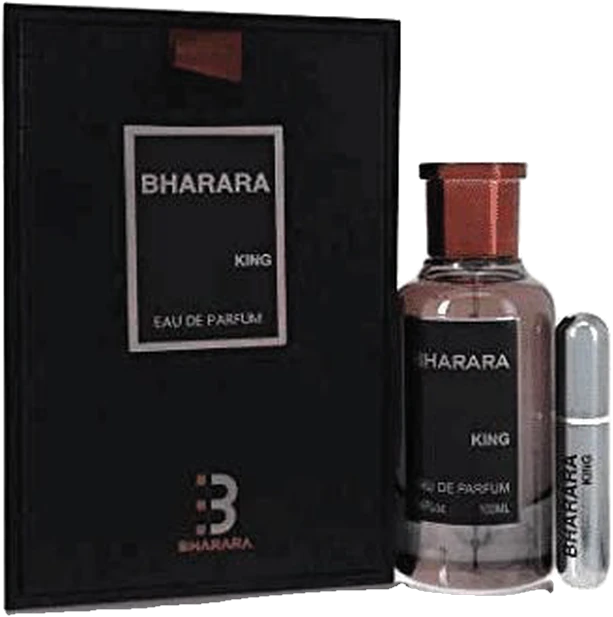
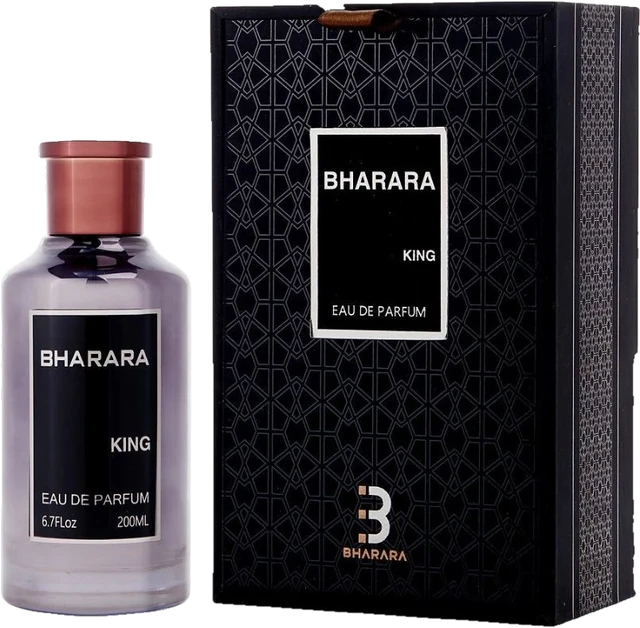
Fotos mas nitidas: Very Good Girl, Lionheart, Bharara King, Untold, Velvet Gold, Pure Gold
Claude-Session: https://claude.ai/code/session_015iFcYwijyDYCUynNUAShfU

diff --git a/web/sw.js b/web/sw.js
@@ -1,5 +1,5 @@
 // Offline cache: pages fresh from the network when online, images/scripts served from cache.
-const V = 'lcp-v4';
+const V = 'lcp-v5';
 self.addEventListener('install', e => self.skipWaiting());
 self.addEventListener('activate', e => e.waitUntil(caches.keys().then(ks => Promise.all(ks.filter(k => k !== V).map(k => caches.delete(k)))).then(() => self.clients.claim())));
 self.addEventListener('fetch', e => {
